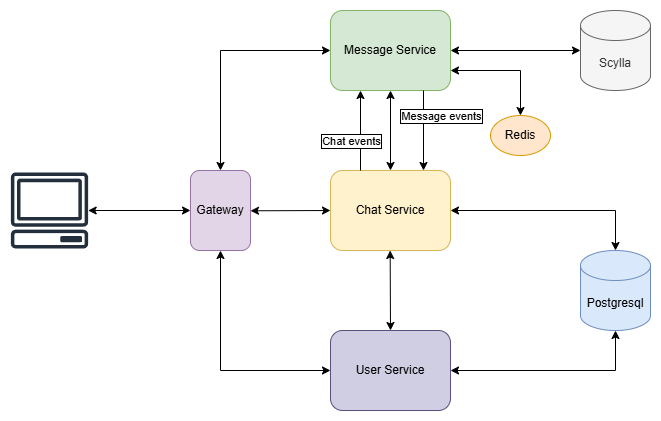
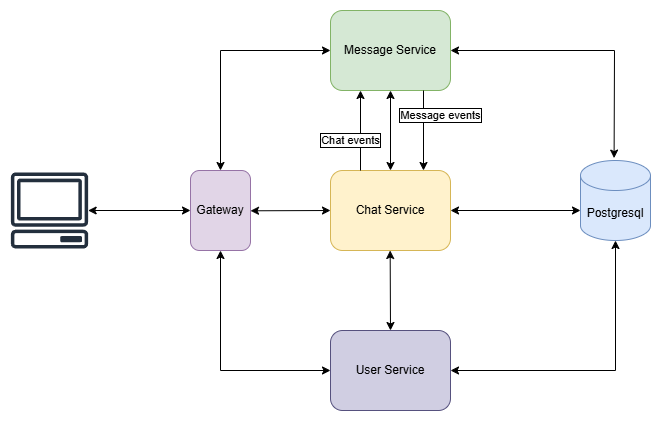
update readme

diff --git a/README.md b/README.md
@@ -1,8 +1,7 @@
 # 📱 Social service
 
 Aplikacja społecznościowa obsługująca wiadomości, czaty oraz użytkowników.
-Projekt oparty jest na architekturze mikroserwisów z wykorzystaniem Spring Boot i innych technologii takich jak
-PostgreSQL, Redis i ScyllaDB.
+Projekt oparty jest na architekturze mikroserwisów z wykorzystaniem Spring Boot i PostgreSQL.
 
 ## 🧩 Architektura
 
@@ -56,12 +55,8 @@ Redis – cachowanie danych o chatach
 
 ### 🗃 Model danych
 
-- **ScyllaDB**
-
-Wysokowydajne przechowywanie wiadomości.
-
 - **PostgreSQL**
 
-Przechowywanie danych o użytkownikach i czatach.
+Przechowywanie danych o użytkownikach, czatach i wiadomościach.
 
 ![Model danych](./docs/db.png)
